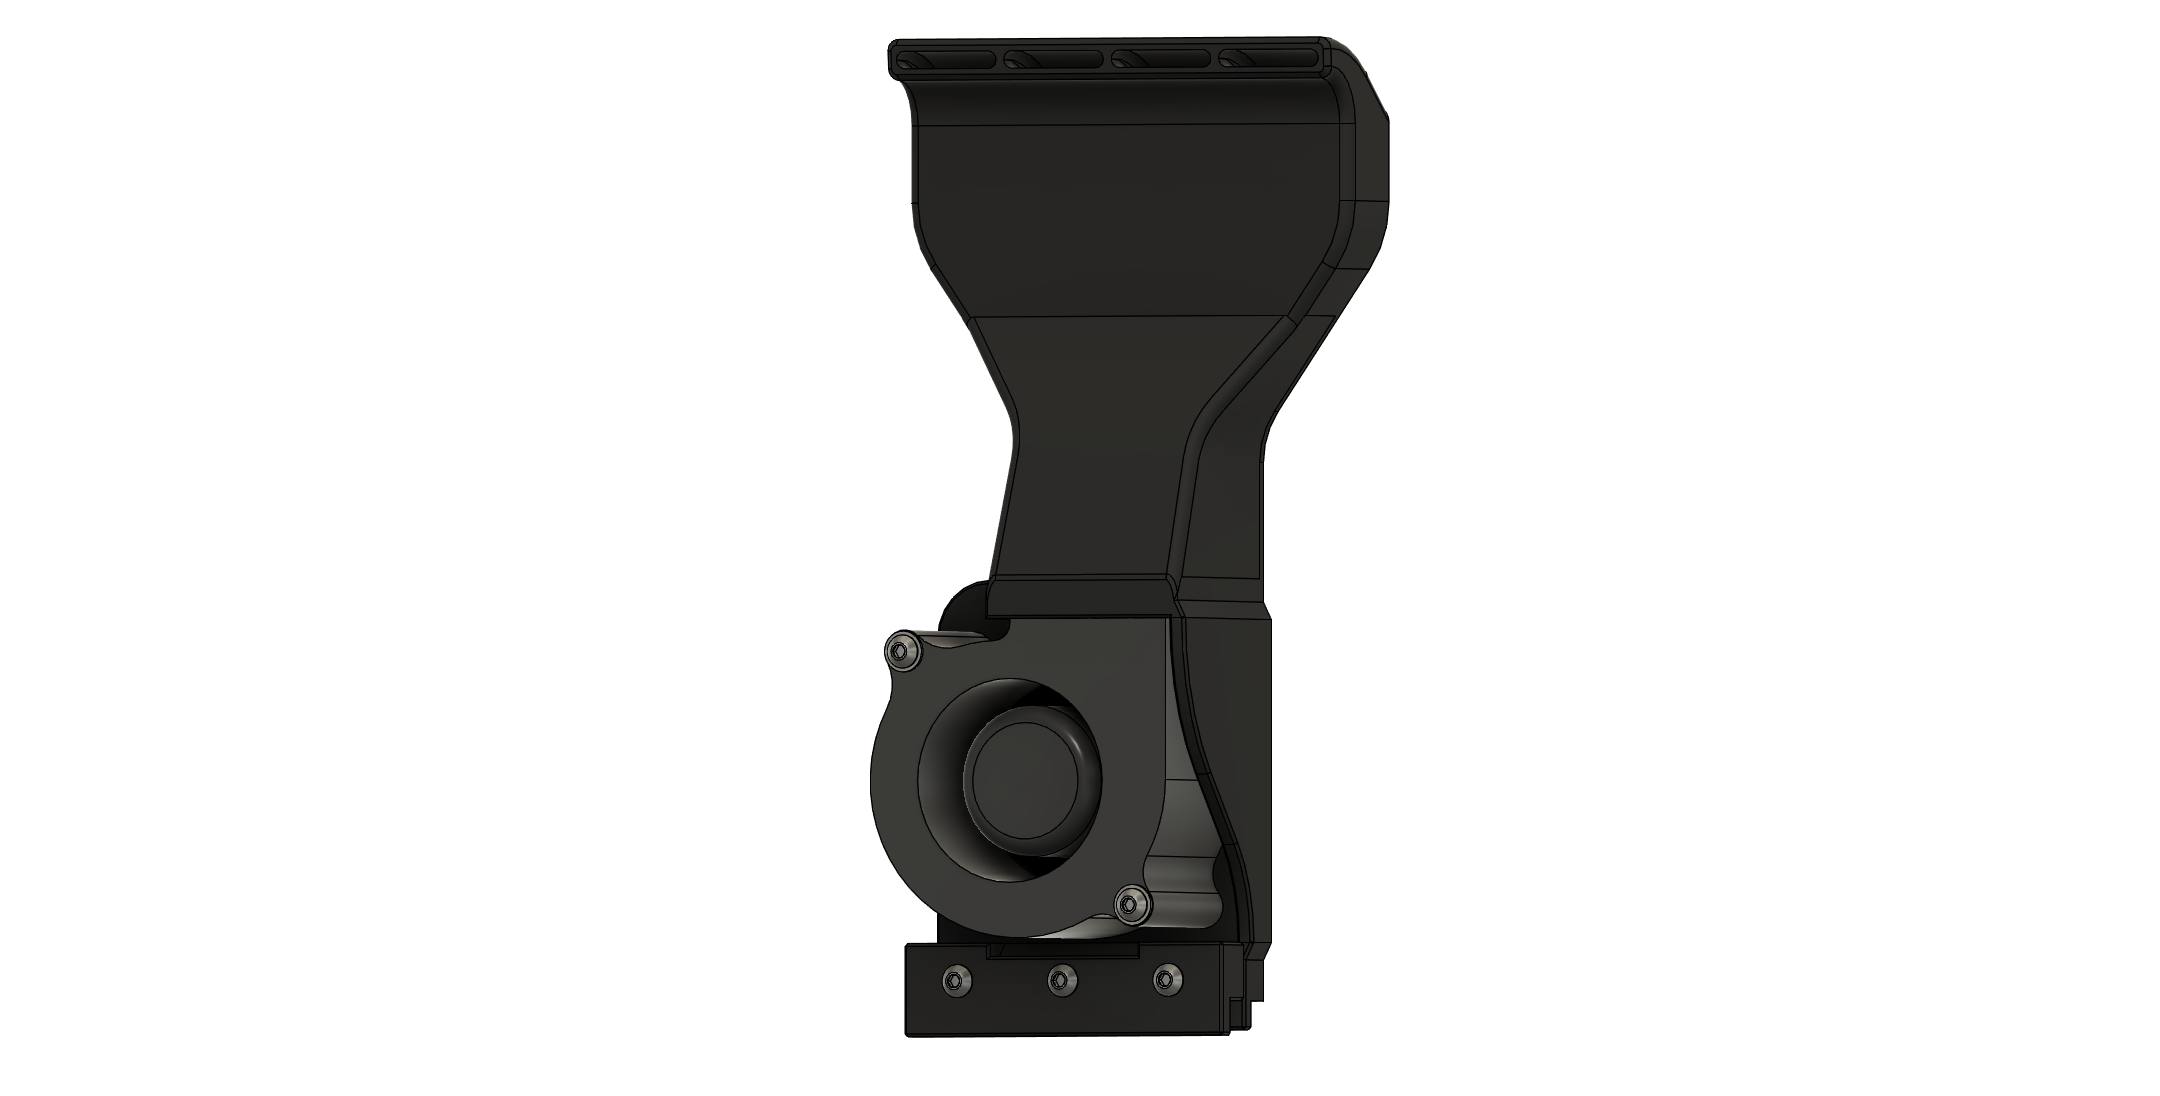
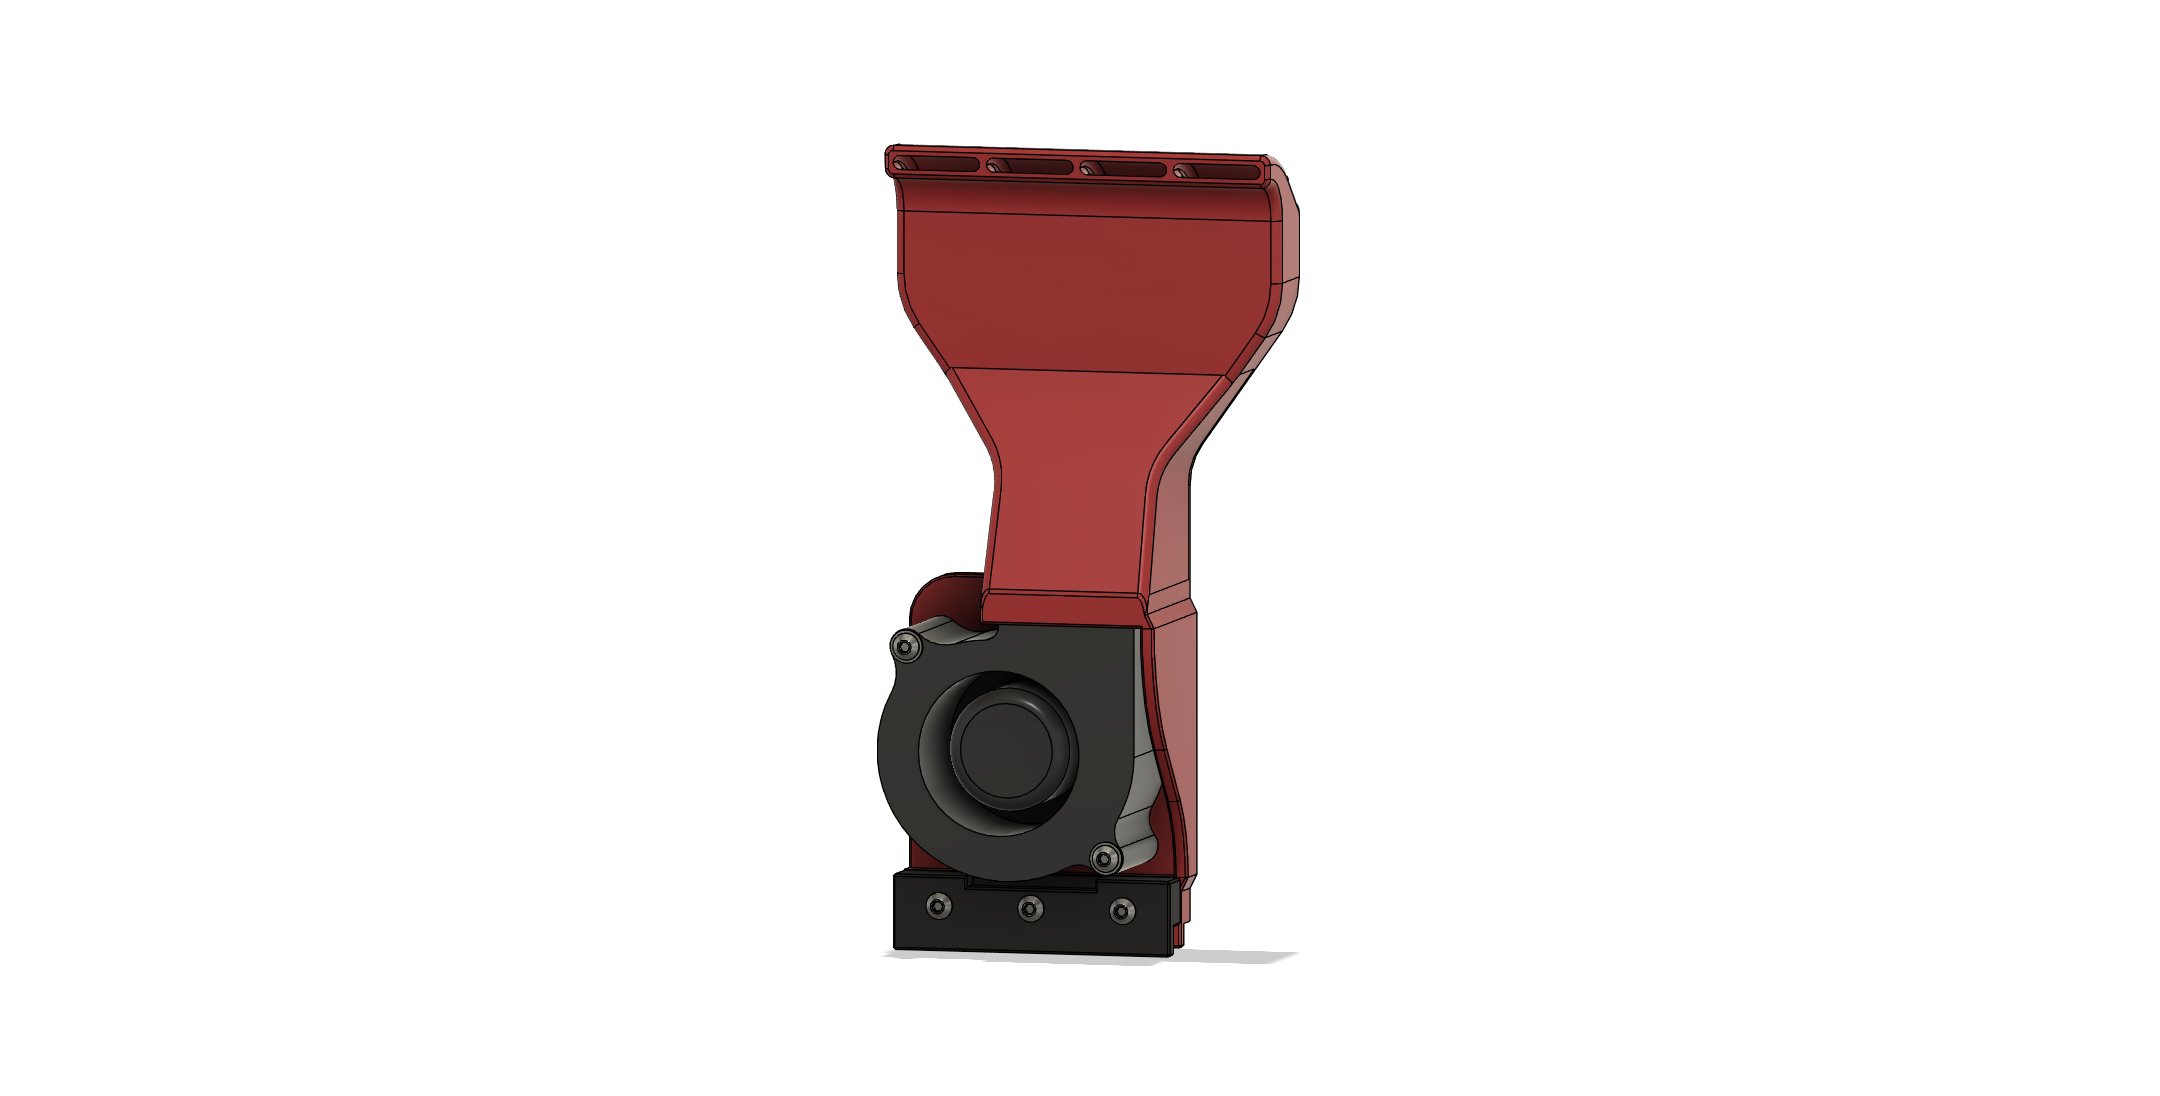
Update instructions and images

Changed region(s): [[0.4032, 0.031, 0.6514, 0.9617]]

diff --git a/ducts/12032/README.md b/ducts/12032/README.md
@@ -31,14 +31,25 @@ You'll need to print 1 [12032_Clamp.stl](STL/12032_Clamp.stl), 1 [12032_Shroud_B
 - Bottom:
   ![Bottom Support](images/Support_Bottom.png)
 
-#### Insert 9x Heatsets For the fan from the front. **CAUTION** the printed part is 4mm thick, so the Heatset is exactly the same length as the part. Don't push the Heatset through by accident.
+#### Insert 3x Heatsets for the fan into the top part from the front . **CAUTION** the printed part is 4mm thick, so the Heatset is exactly the same length as the part. Don't push the Heatset through by accident.
 
-![Heatsets Front](images/Heatsets_Front.png)
+![Heatset Locations for Fan](images/12032_Heatsets_Top.png)
 
-#### Insert 3x Heatsets For the clamp from the back.
+#### Insert 6x Heatsets for the fan into the bottom part from the front.
 
-![Heatsets Back](images/Heatsets_Back.png)
+![Heatset Locations for Fan](images/12032_Heatsets_Bottom_Front.png)
 
-#### Secure the fan with 3x M3x8 BHCS and a Washer in the corners and 6x M3x35 BHCS and a Washer in the rest of the fan mounting holes.
+#### Insert 3x Heatsets for the clamping-block into the bottom part from the back.
 
-#### The remaining steps are the same as for the [5015 duct](/ducts/5015/README.md#slide-the-shroud-into-the-frame-on-whichever-side-you-prefer).
+![Heatset Location for Clamp](images/12032_Heatsets_Bottom_Rear.png)
+
+#### Put the Fan into the top part and secure with 3x M3x8 BHCS and one washer each in the corners to both the top and bottom part.
+
+![Fan Installation](images/12032_Fan_Insert.png)
+![Fan Screws Corner](images/12032_Fan_Screws_Corner.png)
+
+#### Secure the Fan with 6x M3x35 BHCS and a washer each in the remaining mounting holes
+
+![Fan Screws](images/12032_Screws_Fan.png)
+
+#### Insert the shroud into the bottom extrusion of your printer and clamp it down with the clamp block and 3x M3x16BHCS. If you want add some VHB-Tape to the bottom of the shroud. For reference see the [5015 duct](/ducts/5015/README.md#slide-the-shroud-into-the-frame-on-whichever-side-you-prefer-align-it-with-the-center-of-the-print-bed) Assembly instructions

diff --git a/ducts/7530/README.md b/ducts/7530/README.md
@@ -37,4 +37,17 @@ You'll need to print 1x[7530_Clamp.stl](STL/7530_Clamp.stl), 2x[7530_spacer_1.6m
 
 ![Bottom Glue Faces](images/Glue_2Part.png)
 
-#### The remaining steps are the same as for the [5015 duct](/ducts/5015/README.md#insert-2x-heatsets-for-the-fan-from-the-front-caution-the-printed-part-is-4mm-thick-so-the-heatset-is-exactly-the-same-length-as-the-part-dont-push-the-heatset-through-by-accident), except that you use M3x35 BHCS with the printed spacers to secure the fan.
+#### Insert 2x Heatsets for the fan from the front. **CAUTION** the printed part is 4mm thick, so the Heatset is exactly the same length as the part. Don't push the Heatset through by accident.
+
+![Heatset Locations for Fan](images/7530_Heatsets_Front.png)
+
+#### Insert 3x Heatsets for the clamping-block into the shroud from the back.
+
+![Heatset Location for Clamp](images/7530_Heatsets_Rear.png)
+
+#### Put the Fan into the shroud and secure with 2x M3x35 BHCS and one of the printed spacers each.
+
+![Fan Installation](images/7530_Fan_Insert.png)
+![Fan Screws](images/7530_Fan_Screws.png)
+
+#### Insert the shroud into the bottom extrusion of your printer and clamp it down with the clamp block and 3x M3x16BHCS. If you want add some VHB-Tape to the bottom of the shroud. For reference see the [5015 duct](/ducts/5015/README.md#slide-the-shroud-into-the-frame-on-whichever-side-you-prefer-align-it-with-the-center-of-the-print-bed) Assembly instructions

diff --git a/ducts/6028/README.md b/ducts/6028/README.md
@@ -39,4 +39,17 @@ You'll need to print 1 [6028_Clamp.stl](STL/6028_Clamp.stl) and either the [6028
 
 ![2 Piece Gluing location](images/Glue_2Part.png)
 
-#### The remaining steps are the same as for the [5015 duct](/ducts/5015/README.md#insert-2x-heatsets-for-the-fan-from-the-front-caution-the-printed-part-is-4mm-thick-so-the-heatset-is-exactly-the-same-length-as-the-part-dont-push-the-heatset-through-by-accident), except that you use M3x30 BHCS to secure the fan.
+#### Insert 2x Heatsets for the fan from the front. **CAUTION** the printed part is 4mm thick, so the Heatset is exactly the same length as the part. Don't push the Heatset through by accident.
+
+![Heatset Locations for Fan](images/6028_Heatsets_Front.png)
+
+#### Insert 3x Heatsets for the clamping-block into the shroud from the back.
+
+![Heatset Location for Clamp](images/6028_Heatsets_Rear.png)
+
+#### Put the Fan into the shroud and secure with 2x M3x30 BHCS and one Washer each.
+
+![Fan Installation](images/6028_Fan_Insert.png)
+![Fan Screws](images/6028_Fan_Screws.png)
+
+#### Insert the shroud into the bottom extrusion of your printer and clamp it down with the clamp block and 3x M3x16BHCS. If you want add some VHB-Tape to the bottom of the shroud. For reference see the [5015 duct](/ducts/5015/README.md#slide-the-shroud-into-the-frame-on-whichever-side-you-prefer-align-it-with-the-center-of-the-print-bed) Assembly instructions

diff --git a/ducts/9733/README.md b/ducts/9733/README.md
@@ -37,4 +37,17 @@ You'll need to print 1 [9733_Clamp.stl](STL/9733_Clamp.stl) and either the [9733
 
 ![Bottom Glue Faces](images/Glue_2Part.png)
 
-#### The remaining steps are the same as for the [5015 duct](/ducts/5015/README.md#insert-2x-heatsets-for-the-fan-from-the-front-caution-the-printed-part-is-4mm-thick-so-the-heatset-is-exactly-the-same-length-as-the-part-dont-push-the-heatset-through-by-accident), except that you use M3x35 BHCS to secure the fan.
+#### Insert 2x Heatsets for the fan from the front. **CAUTION** the printed part is 4mm thick, so the Heatset is exactly the same length as the part. Don't push the Heatset through by accident.
+
+![Heatset Locations for Fan](images/9733_Heatsets_Front.png)
+
+#### Insert 3x Heatsets for the clamping-block into the shroud from the back.
+
+![Heatset Location for Clamp](images/9733_Heatsets_Rear.png)
+
+#### Put the Fan into the shroud and secure with 2x M3x35 BHCS and one washer each.
+
+![Fan Installation](images/9733_Fan_Insert.png)
+![Fan Screws](images/9733_Fan_Screws.png)
+
+#### Insert the shroud into the bottom extrusion of your printer and clamp it down with the clamp block and 3x M3x16BHCS. If you want add some VHB-Tape to the bottom of the shroud. For reference see the [5015 duct](/ducts/5015/README.md#slide-the-shroud-into-the-frame-on-whichever-side-you-prefer-align-it-with-the-center-of-the-print-bed) Assembly instructions

diff --git a/README.md b/README.md
@@ -1,10 +1,10 @@
 # V0 Auxilliary Cooling Fan
 
 Auxilliary Cooling Fan Ducts for the Voron V0 3d-Printers, using either a 5015, 6028, 7530, 9733 or 12032 Blower Fan.
-![Lineup of all Ducts](images/Lineup%20v2.png)
+![Lineup of all Ducts](images/Lineup%20v2_red.png)
 
 Below the 5015 Fan and duct installed in a v0.2
-![5015 Fan installed](images/Assembled.png)
+![5015 Fan installed](images/Assembled_red.png)
 
 The Shrouds can be easily installed after the Printer has already been fully assembled, as they just slot into either the left or right bottom extrusion and get clamped onto the extrusion. For added security you can use some VHB-Tape.
 

diff --git a/ducts/5015/README.md b/ducts/5015/README.md
@@ -31,7 +31,7 @@ You'll need to print 1 [5015_Clamp_Block.stl](STL/5015_Clamp_Block.stl) and eith
 - 2 Piece Version:
   ![2 Piece Bottom](images/Assembly_Shroud_2Part_Supports.png)
 
-#### Insert 2x Heatsets For the fan from the front. **CAUTION** the printed part is 4mm thick, so the Heatset is exactly the same length as the part. Don't push the Heatset through by accident.
+#### Insert 2x Heatsets for the fan from the front. **CAUTION** the printed part is 4mm thick, so the Heatset is exactly the same length as the part. Don't push the Heatset through by accident.
 
 ![Heatset Locations for Fan](images/Assembly_Shroud_Heatsets_Front.png)
 
